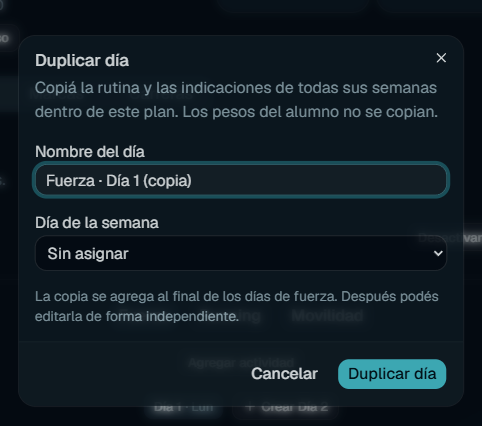
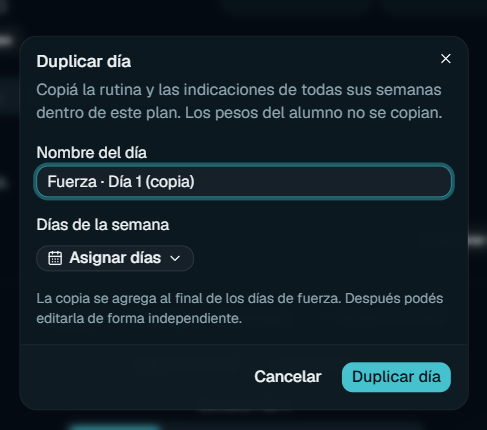
Asignar una rutina a varios días con un checklist desplegable

diff --git a/aktiv-client/src/components/plan-mensual.tsx b/aktiv-client/src/components/plan-mensual.tsx
@@ -1,11 +1,12 @@
 "use client";
+import { DiasSesion } from "@/components/dias-sesion";
 
 import { useCallback, useEffect, useRef, useState, type ReactNode } from "react";
 import { ArrowLeft, ArrowRight, CalendarDays, Check, Copy, Pencil, Plus, Trash2 } from "lucide-react";
 import { toast } from "sonner";
 import { ZodError } from "zod";
 import {
-  DIAS_PLAN, MAX_SEMANAS_PLAN, semanasDelPlan, prescripcionEfectiva, semanaDelPlan,
+  diasDeSesion, DIAS_PLAN, MAX_SEMANAS_PLAN, semanasDelPlan, prescripcionEfectiva, semanaDelPlan,
   altaMensualApi, altaSesionApi, duplicarSesionApi, parcheSesionApi, parcheEjercicioMensualApi,
   parcheCeldaAlumnoApi, parcheCeldaProfeApi, parcheMensualApi, type PlanMensual, type SesionEntrenamiento, type EjercicioMensual,
 } from "@aktiv/contrato";
@@ -28,7 +29,6 @@ import { GuardarModeloDialog } from "@/components/guardar-modelo-dialog";
 import { avisarCambioMensual, usePlanesMensuales, hayBorradoresMensuales, registrarBorradorMensual } from "@/lib/mensual";
 import { formatFecha, hoyISO, nuevoId } from "@/lib/format";
 
-const selector = "h-9 w-full min-w-0 rounded-lg border border-input bg-background px-2 text-sm";
 function navegar(accion: () => void) {
   if (hayBorradoresMensuales()) toast.error("Esperá a que se guarden los cambios antes de cambiar de vista.");
   else accion();
@@ -214,8 +214,8 @@ export function ContenidoMes({ plan, editable }: { plan: Pick<PlanMensual, "id" 
     } catch (e) { toast.error(mensaje(e)); } finally { setOcupado(false); }
   }
   if (!editable) {
-    const delDia = plan.sesiones.filter((s) => s.dia === diaAlumno).sort((a, b) => a.orden - b.orden);
-    const sinAsignar = plan.sesiones.filter((s) => s.dia === null);
+    const delDia = plan.sesiones.filter((s) => diasDeSesion(s).includes(diaAlumno)).sort((a, b) => a.orden - b.orden);
+    const sinAsignar = plan.sesiones.filter((s) => !diasDeSesion(s).length);
     const hoy = (new Date().getDay() + 6) % 7 + 1;
     return <div className="space-y-6">
       <div className="space-y-2"><p className="text-center text-sm font-medium">Semana {semana} de {plan.semanas}</p><SemanasPlan total={plan.semanas} semana={semana} actual={actual} onSeleccionar={(s) => navegar(() => setSemana(s))} /></div>
@@ -223,7 +223,7 @@ export function ContenidoMes({ plan, editable }: { plan: Pick<PlanMensual, "id" 
         {!actual && <p className="text-sm text-muted-foreground">{hoyISO() < inicio ? "El plan todavía no empezó." : "Este plan terminó."} Podés consultar sus entrenamientos.</p>}
           <div role="group" aria-label="Días de la semana" className="flex min-w-0 flex-wrap justify-center gap-2">
             {DIAS_PLAN.map((dia, i) => {
-              const entrenamientos = plan.sesiones.filter((s) => s.dia === i + 1);
+              const entrenamientos = plan.sesiones.filter((s) => diasDeSesion(s).includes(i + 1));
               const seleccionado = diaAlumno === i + 1;
               return <Button key={dia} size="sm" className={`h-auto min-h-20 min-w-0 basis-[calc((100%-1.5rem)/4)] flex-col justify-start gap-2 self-stretch whitespace-normal rounded-xl border px-1.5 py-2.5 text-center sm:basis-[calc((100%-3rem)/7)] ${seleccionado ? "border-primary bg-primary/10 ring-1 ring-primary text-foreground hover:bg-primary/15" : "border-transparent bg-muted/40 text-foreground hover:bg-muted"}`} variant="ghost" aria-label={dia} aria-pressed={seleccionado} onClick={() => navegar(() => setDiaAlumno(i + 1))}>
                 <span className={`text-xs font-semibold ${seleccionado ? "text-primary" : "text-muted-foreground"}`}>{dia.slice(0, 3)}</span>
@@ -252,7 +252,7 @@ export function ContenidoMes({ plan, editable }: { plan: Pick<PlanMensual, "id" 
     {(sesiones.length > 0 || editable) && <div className="space-y-2">
       <h3 className="sr-only">Días de {tipo.toLowerCase()}</h3>
       <div role="group" aria-label="Días del entrenamiento" className="flex flex-wrap justify-center gap-2">
-        {sesiones.map((s, i) => <Button key={s.id} size="sm" variant={sesion?.id === s.id ? "secondary" : "outline"} aria-label={`Día ${i + 1}`} aria-pressed={sesion?.id === s.id} disabled={ocupado} onClick={() => navegar(() => setSeleccionSesion(s.id))}>Día {i + 1}{s.dia && <span className="text-muted-foreground"> · {DIAS_PLAN[s.dia - 1].slice(0, 3)}</span>}</Button>)}
+        {sesiones.map((s, i) => <Button key={s.id} size="sm" variant={sesion?.id === s.id ? "secondary" : "outline"} aria-label={`Día ${i + 1}`} aria-pressed={sesion?.id === s.id} disabled={ocupado} onClick={() => navegar(() => setSeleccionSesion(s.id))}>Día {i + 1}{diasDeSesion(s).length>0 && <span className="text-muted-foreground"> · {diasDeSesion(s).map(d=>DIAS_PLAN[d-1].slice(0,3)).join(" / ")}</span>}</Button>)}
         {editable && <Button variant="outline" size="sm" disabled={ocupado} onClick={() => navegar(() => void nuevaSesion())}><Plus />{ocupado ? "Creando día…" : `Crear Día ${sesiones.length + 1}`}</Button>}
       </div>
     </div>}
@@ -279,6 +279,7 @@ function EditorSesion(props: PropsEditorSesion) {
 function DuplicarSesionDialog({ sesion, onCerrar, onDuplicada }: { sesion: SesionEntrenamiento; onCerrar: () => void; onDuplicada: (id: string) => void }) {
   const { api } = usePlanEditor();
   const [id] = useState(nuevoId);
+  const [dias, setDias] = useState<number[]>([]);
   const [ocupado, setOcupado] = useState(false);
   const [error, setError] = useState("");
   async function duplicar(e: React.FormEvent<HTMLFormElement>) {
@@ -286,7 +287,7 @@ function DuplicarSesionDialog({ sesion, onCerrar, onDuplicada }: { sesion: Sesio
     if (ocupado) return;
     if (hayBorradoresMensuales()) { setError("Esperá a que se guarden los cambios antes de duplicar."); return; }
     const f = new FormData(e.currentTarget);
-    const resultado = duplicarSesionApi.safeParse({ id, nombre: String(f.get("nombre")).trim(), dia: f.get("dia") ? Number(f.get("dia")) : null });
+    const resultado = duplicarSesionApi.safeParse({ id, nombre: String(f.get("nombre")).trim(), dia: dias[0] ?? null, dias });
     if (!resultado.success) { setError(resultado.error.issues[0]?.message ?? "Revisá los datos de la copia."); return; }
     setOcupado(true); setError("");
     try {
@@ -300,7 +301,7 @@ function DuplicarSesionDialog({ sesion, onCerrar, onDuplicada }: { sesion: Sesio
         <DialogHeader><DialogTitle>Duplicar día</DialogTitle><DialogDescription>Copiá la rutina y las indicaciones de todas sus semanas dentro de este plan. Los pesos del alumno no se copian.</DialogDescription></DialogHeader>
         <fieldset disabled={ocupado} className="min-w-0 space-y-4">
           <label className="block space-y-1 text-sm">Nombre del día<Input name="nombre" defaultValue={`${(sesion.nombre || sesion.tipo).slice(0, 52)} (copia)`} maxLength={60} required autoFocus /></label>
-          <label className="block space-y-1 text-sm">Día de la semana<select name="dia" aria-label="Día de la semana" className={selector} defaultValue=""><option value="">Sin asignar</option>{DIAS_PLAN.map((d, i) => <option key={d} value={i + 1}>{d}</option>)}</select></label>
+          <div className="space-y-2"><p className="text-sm">Días de la semana</p><DiasSesion value={dias} onChange={setDias} disabled={ocupado} /></div>
           <p className="text-xs text-muted-foreground">La copia se agrega al final de los días de {sesion.tipo.toLowerCase()}. Después podés editarla de forma independiente.</p>
         </fieldset>
         {error && <p role="alert" className="text-sm text-destructive">{error}</p>}
@@ -312,6 +313,7 @@ function DuplicarSesionDialog({ sesion, onCerrar, onDuplicada }: { sesion: Sesio
 
 function EditarSesionDialog({ sesion, onGuardar, onCerrar }: { sesion: SesionEntrenamiento; onGuardar: (sesion: SesionEntrenamiento) => void; onCerrar: () => void }) {
   const { api } = usePlanEditor();
+  const [dias, setDias] = useState(()=>diasDeSesion(sesion));
   const [ocupado, setOcupado] = useState(false);
   const [error, setError] = useState("");
   async function guardar(e: React.FormEvent<HTMLFormElement>) {
@@ -319,7 +321,7 @@ function EditarSesionDialog({ sesion, onGuardar, onCerrar }: { sesion: SesionEnt
     const f = new FormData(e.currentTarget);
     setOcupado(true); setError("");
     try {
-      const resultado = parcheSesionApi.safeParse({ nombre: String(f.get("nombre")).trim(), dia: f.get("dia") ? Number(f.get("dia")) : null });
+      const resultado = parcheSesionApi.safeParse({ nombre: String(f.get("nombre")).trim(), dia: dias[0] ?? null, dias });
       if (!resultado.success) { setError(resultado.error.issues[0]?.message ?? "Revisá los datos del entrenamiento."); return; }
       await api.patch(`/sesiones/${sesion.id}`, resultado.data);
       const actualizada = { ...sesion, ...resultado.data };
@@ -333,7 +335,7 @@ function EditarSesionDialog({ sesion, onGuardar, onCerrar }: { sesion: SesionEnt
         <DialogHeader><DialogTitle>Editar entrenamiento</DialogTitle><DialogDescription>Cambiá el nombre y el día en que le toca al alumno.</DialogDescription></DialogHeader>
         <fieldset disabled={ocupado} className="min-w-0 space-y-4">
           <label className="block space-y-1 text-sm">Nombre del día<Input name="nombre" defaultValue={sesion.nombre} maxLength={60} autoFocus /></label>
-          <label className="block space-y-1 text-sm">Día de la semana<select name="dia" aria-label="Día de la semana" className={selector} defaultValue={sesion.dia ?? ""}><option value="">Sin asignar</option>{DIAS_PLAN.map((d, i) => <option key={d} value={i + 1}>{d}</option>)}</select></label>
+          <div className="space-y-2"><p className="text-sm">Días de la semana</p><DiasSesion value={dias} onChange={setDias} disabled={ocupado} /></div>
           <p className="text-xs text-muted-foreground">Podés asignar varios entrenamientos al mismo día. Aparecen en «Hoy te toca».</p>
         </fieldset>
         {error && <p role="alert" className="text-sm text-destructive">{error}</p>}
@@ -376,7 +378,7 @@ function FormularioSesion({ sesion, numeroDia, semana, semanasVisibles, totalSem
     guardando.current = true;
     setOcupado(true); setError("");
     try {
-      const cabecera = (s: SesionEntrenamiento) => ({ nombre: s.nombre, tipo: s.tipo, dia: s.dia, calentamiento: s.calentamiento, activacion: s.activacion, enfriamiento: s.enfriamiento, orden: s.orden, bloques: s.bloques });
+      const cabecera = (s: SesionEntrenamiento) => ({ nombre: s.nombre, tipo: s.tipo, dia: s.dia, ...(s.dias ? {dias:s.dias} : {}), calentamiento: s.calentamiento, activacion: s.activacion, enfriamiento: s.enfriamiento, orden: s.orden, bloques: s.bloques });
       const c = cambio(cabecera(guardado), cabecera(borrador));
       // Validar el borrador entero antes de empezar a escribir.
       const operaciones: { ruta: string; datos: object }[] = [];
@@ -441,7 +443,7 @@ function FormularioSesion({ sesion, numeroDia, semana, semanasVisibles, totalSem
       avisarCambioMensual(); setConfirmar(false); setQuitar(null);
     } catch (e) { setError(mensaje(e)); } finally { setOcupado(false); }
   }
-  return <Card className="gap-6 shadow-none ring-border/60"><CardHeader><div className="flex items-start justify-between gap-3"><div className="min-w-0"><CardTitle className="break-words text-lg">{borrador.nombre || `${sesion.tipo} · Día ${numeroDia}`}</CardTitle><CardDescription>{borrador.dia ? DIAS_PLAN[borrador.dia - 1] : "Sin día asignado"}</CardDescription></div><div className="flex shrink-0 gap-1"><Button type="button" variant="ghost" size="icon-sm" className="text-muted-foreground" aria-label="Duplicar día de entrenamiento" title="Duplicar día" disabled={ocupado || sucio} onClick={onDuplicar}><Copy /></Button><Button type="button" variant="ghost" size="icon-sm" className="text-muted-foreground" aria-label="Editar entrenamiento" title="Editar entrenamiento" disabled={ocupado || sucio} onClick={() => setEditando(true)}><Pencil /></Button><Button type="button" variant="ghost" size="icon-sm" className="text-muted-foreground" aria-label="Eliminar sesión" disabled={ocupado || sucio} onClick={() => setConfirmar(true)}><Trash2 /></Button></div></div></CardHeader>
+  return <Card className="gap-6 shadow-none ring-border/60"><CardHeader><div className="flex items-start justify-between gap-3"><div className="min-w-0"><CardTitle className="break-words text-lg">{borrador.nombre || `${sesion.tipo} · Día ${numeroDia}`}</CardTitle><div className="mt-2"><DiasSesion value={diasDeSesion(borrador)} onChange={(dias)=>setBorrador(b=>({...b,dias,dia:dias[0]??null}))} /></div></div><div className="flex shrink-0 gap-1"><Button type="button" variant="ghost" size="icon-sm" className="text-muted-foreground" aria-label="Duplicar día de entrenamiento" title="Duplicar día" disabled={ocupado || sucio} onClick={onDuplicar}><Copy /></Button><Button type="button" variant="ghost" size="icon-sm" className="text-muted-foreground" aria-label="Editar entrenamiento" title="Editar entrenamiento" disabled={ocupado || sucio} onClick={() => setEditando(true)}><Pencil /></Button><Button type="button" variant="ghost" size="icon-sm" className="text-muted-foreground" aria-label="Eliminar sesión" disabled={ocupado || sucio} onClick={() => setConfirmar(true)}><Trash2 /></Button></div></div></CardHeader>
     {editando && <EditarSesionDialog sesion={borrador} onCerrar={() => setEditando(false)} onGuardar={(actualizada) => { setBorrador(actualizada); setGuardado(actualizada); }} />}
     <CardContent><form onSubmit={(e) => { e.preventDefault(); void guardar(); }} className="space-y-6 [&_input[data-slot=input]]:border-border/50 [&_textarea]:border-border/50">
       <fieldset className="min-w-0 space-y-8">
@@ -477,7 +479,7 @@ function CalendarioPlanes({ planes }: { planes: PlanMensual[] }) {
   const entradas = (dia: string, numero: number) => planes.flatMap((plan) => {
     const semana = semanaDelPlan(plan.inicio, dia, plan.semanas);
     if(!semana)return [];
-    const anteriores=plan.sesiones.filter(s=>s.dia===numero&&mostrarAnterior(plan,s)&&(filtro===null||s.tipo===filtro)).map(sesion=>({plan,sesion,semana}));
+    const anteriores=plan.sesiones.filter(s=>diasDeSesion(s).includes(numero)&&mostrarAnterior(plan,s)&&(filtro===null||s.tipo===filtro)).map(sesion=>({plan,sesion,semana}));
     const texto=plan.running?.[semana]?.[(["lunes","martes","miercoles","jueves","viernes","sabado","domingo"] as const)[numero-1]];
     if(texto?.trim()&&(filtro===null||filtro==="Running"))anteriores.push({plan,semana,sesion:{id:"running:"+plan.id+":"+numero,nombre:texto,tipo:"Running",dia:numero,orden:0,franja:"Sin definir",calentamiento:"",enfriamiento:"",activacion:[],bloques:[],ejercicios:[]}});
     return anteriores;
@@ -486,7 +488,7 @@ function CalendarioPlanes({ planes }: { planes: PlanMensual[] }) {
   const seleccionadas = entradas(fecha, numeroDia);
   const sinAsignar = planes.flatMap((plan) => {
     const semana = semanaDelPlan(plan.inicio, fecha, plan.semanas);
-    return semana ? plan.sesiones.filter((s) => s.dia === null && mostrarAnterior(plan,s) && (filtro === null || s.tipo === filtro)).map((sesion) => ({ plan, sesion, semana })) : [];
+    return semana ? plan.sesiones.filter((s) => !diasDeSesion(s).length && mostrarAnterior(plan,s) && (filtro === null || s.tipo === filtro)).map((sesion) => ({ plan, sesion, semana })) : [];
   });
   return <div className="min-w-0 space-y-6">
     <div className="flex flex-wrap items-center justify-center gap-2"><Button size="icon-sm" variant="outline" aria-label="Semana anterior" disabled={lunes <= "2000-01-08"} onClick={() => navegar(() => setFecha((anterior) => desplazarDia(anterior, -7)))}><ArrowLeft /></Button><p className="text-sm font-medium">{formatFecha(lunes)} al {formatFecha(desplazarDia(lunes, 6), { conAnio: true })}</p><Button size="icon-sm" variant="outline" aria-label="Semana siguiente" disabled={fecha >= "2100-12-20"} onClick={() => navegar(() => setFecha((anterior) => desplazarDia(anterior, 7)))}><ArrowRight /></Button><Button size="sm" variant="ghost" onClick={() => navegar(() => setFecha(hoyISO()))}>Hoy</Button></div>

diff --git a/aktiv-api/test/dias-sesion.e2e-spec.ts b/aktiv-api/test/dias-sesion.e2e-spec.ts
@@ -1,0 +1,62 @@
+import type { NestExpressApplication } from "@nestjs/platform-express";
+import type { PlanMensual } from "@aktiv/contrato";
+import { Entorno, Sesion, levantarApi, uuid } from "./helpers";
+
+describe("Una sesión en varios días", () => {
+  const env = new Entorno();
+  let app: NestExpressApplication, A: Sesion, B: Sesion, S: Sesion, alumno: string, sesion: string;
+  const plan = uuid(), modelo = uuid();
+  const leer = async () => ((await S.get(`/api/alumnos/${alumno}/planes-mensuales`)).body as PlanMensual[]).find(p => p.id === plan)!;
+  beforeAll(async () => {
+    app = await levantarApi();
+    const a = await env.usuario("dias-profe", "coach"), b = await env.usuario("dias-ajeno", "coach"), s = await env.usuario("dias-alumno", "alumno");
+    alumno = await env.alumno(a, "Alumno de prueba", s);
+    A = await new Sesion(app).entrar(a.email); B = await new Sesion(app).entrar(b.email); S = await new Sesion(app).entrar(s.email);
+    expect((await A.post(`/api/alumnos/${alumno}/planes-mensuales`, { id: plan, nombre: "Varios días", inicio: "2026-11-01", semanas: 4, activo: true, diasIniciales: { fuerza: 1, running: 0 } })).status).toBe(201);
+    sesion = (await leer()).sesiones[0].id;
+  });
+  afterAll(async () => { await env.limpiar(); if (app) await app.close(); });
+  it("guarda y limpia la asignación sin duplicar la sesión", async () => {
+    expect((await A.patch(`/api/sesiones/${sesion}`, { dias: [5, 1, 3], dia: 1 })).status).toBe(200);
+    expect((await leer()).sesiones).toHaveLength(1);
+    expect((await leer()).sesiones[0]).toMatchObject({ dia: 1, dias: [1, 3, 5] });
+    expect((await A.patch(`/api/sesiones/${sesion}`, { dias: [], dia: null })).status).toBe(200);
+    expect((await leer()).sesiones[0]).toMatchObject({ dia: null, dias: [] });
+    await A.patch(`/api/sesiones/${sesion}`, { dias: [1, 3, 5], dia: 1 });
+  });
+  it("rechaza días inválidos y protege al alumno y a otros profesores", async () => {
+    for (const dias of [[0], [8], [1, 1]]) expect((await A.patch(`/api/sesiones/${sesion}`, { dias })).status).toBe(400);
+    expect((await S.patch(`/api/sesiones/${sesion}`, { dias: [] })).status).toBe(403);
+    expect((await B.patch(`/api/sesiones/${sesion}`, { dias: [] })).status).toBe(404);
+    expect((await leer()).sesiones[0].dias).toEqual([1, 3, 5]);
+  });
+  it("conserva los días al duplicar planes y asignar modelos", async () => {
+    const copia = uuid(), asignado = uuid();
+    expect((await A.post(`/api/planes-mensuales/${plan}/duplicar`, { id: copia, alumnoId: alumno, nombre: "Copia", inicio: "2026-12-01" })).status).toBe(201);
+    expect((await A.post(`/api/planes-modelo/desde-plan/${plan}`, { id: modelo, nombre: "Modelo" })).status).toBe(201);
+    expect((await A.get(`/api/planes-modelo/${modelo}`)).body.sesiones[0].dias).toEqual([1, 3, 5]);
+    expect((await A.post(`/api/planes-modelo/${modelo}/asignar`, { id: asignado, alumnoId: alumno, nombre: "Asignado", inicio: "2026-12-01" })).status).toBe(201);
+    const lista = (await A.get(`/api/alumnos/${alumno}/planes-mensuales`)).body as PlanMensual[];
+    for (const id of [copia, asignado]) expect(lista.find(p => p.id === id)!.sesiones[0].dias).toEqual([1, 3, 5]);
+  });
+  it("edita la selección de un modelo sin alterar sus copias asignadas",async()=>{
+    const ruta=`/api/planes-modelo/${modelo}`;
+    const id=(await A.get(ruta)).body.sesiones[0].id;
+    expect((await A.post(ruta+"/contenido",{metodo:"PATCH",ruta:`/sesiones/${id}`,datos:{dias:[4,2]}})).status).toBe(201);
+    expect((await A.get(ruta)).body.sesiones[0]).toMatchObject({dias:[2,4],dia:2});
+    expect((await A.post(ruta+"/contenido",{metodo:"PATCH",ruta:`/sesiones/${id}`,datos:{dias:[]}})).status).toBe(201);
+    expect((await A.get(ruta)).body.sesiones[0]).toMatchObject({dias:[],dia:null});
+    expect((await leer()).sesiones[0].dias).toEqual([1,3,5]);
+  });
+  it("valida también escrituras directas y conserva clientes de un solo día", async () => {
+    for(const dias of [[0],[8],[1,1],[null]]) { const r=await env.admin.from("sesiones").update({dias}).eq("id",sesion);expect(r.error?.code).toBe("23514"); }
+    expect((await env.admin.from("sesiones").update({dia:2}).eq("id",sesion)).error).toBeNull();expect((await leer()).sesiones[0].dias).toEqual([2]);
+    await A.patch(`/api/sesiones/${sesion}`,{dias:[1,3,5],dia:1});
+  });
+  it("duplica una rutina con una selección independiente", async () => {
+    const id = uuid();
+    expect((await A.post(`/api/sesiones/${sesion}/duplicar`, { id, nombre: "Copia independiente", dia: 2, dias: [2, 4] })).status).toBe(201);
+    expect((await leer()).sesiones.find(s => s.id === id)!.dias).toEqual([2, 4]);
+    expect((await leer()).sesiones.find(s => s.id === sesion)!.dias).toEqual([1, 3, 5]);
+  });
+});

diff --git a/aktiv-api/contrato/src/mensual.ts b/aktiv-api/contrato/src/mensual.ts
@@ -10,6 +10,7 @@ export function semanasDelPlan(cantidad: number) {
   return Array.from({ length: cantidad }, (_, i) => i + 1);
 }
 export const DIAS_PLAN = ["Lunes", "Martes", "Miércoles", "Jueves", "Viernes", "Sábado", "Domingo"] as const;
+export const diasSesionSchema = z.array(z.number().int().min(1).max(7)).max(7).refine(d => new Set(d).size === d.length, "Día repetido");
 const id = z.uuid("Identificador inválido");
 export const actividadPlanSchema = z.string().trim().min(1, "Escribí la actividad").max(80).transform((s) => s.replace(/\s+/g, " "));
 const inicio = fechaISO.refine((f) => f >= "2000-01-01" && f <= "2100-01-01", "Fecha fuera de rango");
@@ -32,7 +33,7 @@ export const ejercicioMensualSchema = z.object({
 });
 export const sesionEntrenamientoSchema = z.object({
   franja: z.enum(["Mañana", "Tarde", "Noche", "Sin definir"]).default("Sin definir"),
-  id, dia: z.number().int().min(1).max(7).nullable(), tipo: actividadPlanSchema,
+  id, dias: diasSesionSchema.optional(), dia: z.number().int().min(1).max(7).nullable(), tipo: actividadPlanSchema,
   nombre: textoOpcional(60), calentamiento: textoOpcional(4000), enfriamiento: textoOpcional(4000),
   orden: z.number().int(), ejercicios: z.array(ejercicioMensualSchema),
   bloques: bloquesSesionSchema.default([]),
@@ -64,7 +65,7 @@ export const parcheMensualApi = noVacio({ nombre: textoOpcional(120), inicio, ac
 export const altaSesionApi = sesionEntrenamientoSchema.omit({ ejercicios: true, orden: true }).strict();
 export const duplicarSesionApi = z.object({
   id, nombre: z.string().trim().min(1, "Escribí un nombre para la copia").max(60),
-  dia: z.number().int().min(1).max(7).nullable(),
+  dia: z.number().int().min(1).max(7).nullable(), dias: diasSesionSchema.optional(),
 }).strict();
 export const duplicarPlanApi = z.object({
   id, alumnoId: id, inicio,
@@ -92,3 +93,6 @@ export function semanaDelPlan(inicioPlan: string, fecha = hoyISO(), cantidadSema
   const dias = Math.round((Date.parse(`${fecha}T12:00:00Z`) - Date.parse(`${inicioPlan}T12:00:00Z`)) / 86400000);
   return dias >= 0 && dias < cantidadSemanas * 7 ? Math.floor(dias / 7) + 1 : null;
 }
+
+/** Compatibilidad con sesiones anteriores a la asignación múltiple. */
+export function diasDeSesion(s: { dia: number | null; dias?: number[] }): number[] { return s.dias ?? (s.dia === null ? [] : [s.dia]); }

diff --git a/aktiv-client/src/contrato/mensual.ts b/aktiv-client/src/contrato/mensual.ts
@@ -10,6 +10,7 @@ export function semanasDelPlan(cantidad: number) {
   return Array.from({ length: cantidad }, (_, i) => i + 1);
 }
 export const DIAS_PLAN = ["Lunes", "Martes", "Miércoles", "Jueves", "Viernes", "Sábado", "Domingo"] as const;
+export const diasSesionSchema = z.array(z.number().int().min(1).max(7)).max(7).refine(d => new Set(d).size === d.length, "Día repetido");
 const id = z.uuid("Identificador inválido");
 export const actividadPlanSchema = z.string().trim().min(1, "Escribí la actividad").max(80).transform((s) => s.replace(/\s+/g, " "));
 const inicio = fechaISO.refine((f) => f >= "2000-01-01" && f <= "2100-01-01", "Fecha fuera de rango");
@@ -32,7 +33,7 @@ export const ejercicioMensualSchema = z.object({
 });
 export const sesionEntrenamientoSchema = z.object({
   franja: z.enum(["Mañana", "Tarde", "Noche", "Sin definir"]).default("Sin definir"),
-  id, dia: z.number().int().min(1).max(7).nullable(), tipo: actividadPlanSchema,
+  id, dias: diasSesionSchema.optional(), dia: z.number().int().min(1).max(7).nullable(), tipo: actividadPlanSchema,
   nombre: textoOpcional(60), calentamiento: textoOpcional(4000), enfriamiento: textoOpcional(4000),
   orden: z.number().int(), ejercicios: z.array(ejercicioMensualSchema),
   bloques: bloquesSesionSchema.default([]),
@@ -64,7 +65,7 @@ export const parcheMensualApi = noVacio({ nombre: textoOpcional(120), inicio, ac
 export const altaSesionApi = sesionEntrenamientoSchema.omit({ ejercicios: true, orden: true }).strict();
 export const duplicarSesionApi = z.object({
   id, nombre: z.string().trim().min(1, "Escribí un nombre para la copia").max(60),
-  dia: z.number().int().min(1).max(7).nullable(),
+  dia: z.number().int().min(1).max(7).nullable(), dias: diasSesionSchema.optional(),
 }).strict();
 export const duplicarPlanApi = z.object({
   id, alumnoId: id, inicio,
@@ -92,3 +93,6 @@ export function semanaDelPlan(inicioPlan: string, fecha = hoyISO(), cantidadSema
   const dias = Math.round((Date.parse(`${fecha}T12:00:00Z`) - Date.parse(`${inicioPlan}T12:00:00Z`)) / 86400000);
   return dias >= 0 && dias < cantidadSemanas * 7 ? Math.floor(dias / 7) + 1 : null;
 }
+
+/** Compatibilidad con sesiones anteriores a la asignación múltiple. */
+export function diasDeSesion(s: { dia: number | null; dias?: number[] }): number[] { return s.dias ?? (s.dia === null ? [] : [s.dia]); }

diff --git a/aktiv-client/src/lib/manual-detallado.ts b/aktiv-client/src/lib/manual-detallado.ts
@@ -120,7 +120,8 @@ export const guias: GuiaManual[] = [
   g("editar-plan", "Planes", "Editar y ordenar un entrenamiento", "Cambiar día, entrada en calor, ejercicios, semanas y vuelta a la calma.", "/alumnos", [
     p("Elegí actividad y Día", "Abrí el plan, pulsá la actividad y después Día 1, Día 2, etcétera. Revisá el título antes de modificar contenido.", "modelo-editor"),
     p("Revisá la semana seleccionada", "Semana 1, Semana 2 y los demás botones permiten recorrer la progresión. La tabla del profesor muestra las columnas disponibles. Comprobá qué celda estás completando antes de escribir.", "editor-bloques"),
-    p("Para nombre o día semanal, usá el lápiz de la sesión", "En Editar entrenamiento podés cambiar Nombre del día y Día de la semana. Confirmá Guardar cambios. No modifica la fecha de inicio de todo el plan.", "dia-editar"),
+    p("Asigná uno o varios días", "Debajo del título del entrenamiento, pulsá Asignar días. En el desplegable tildá Lunes, Miércoles u otros días y pulsá Listo. Esperá Guardado automáticamente. La misma sesión aparece en todos los días elegidos: editar sus ejercicios modifica esa rutina compartida, sin crear copias. Sin asignar quita todos los tildes; no borra el entrenamiento.", "dias-asignar"),
+    p("Para cambiar el nombre, usá el lápiz", "En Editar entrenamiento podés cambiar Nombre del día y también los días de la semana. Confirmá Guardar cambios. No modifica la fecha de inicio de todo el plan.", "dia-editar"),
     p("Editá movilidad y activación", "Buscá el movimiento y escribí su Indicación al lado. Arrastrá desde la manija para ordenar. Pasar a movilidad o Pasar a activación cambia la sección; el tacho quita la fila de esa preparación.", "editor-movilidad"),
     p("Completá cada fila de entrenamiento", "Elegí el ejercicio y escribí su prescripción semanal: por ejemplo 3×10, 20 minutos suaves o 4×200 m. Escribí la pausa en Descanso. El peso usado por el alumno es un registro aparte.", "editor-bloques"),
     p("Mové ejercicios si quedaron en otro bloque", "Arrastrá la manija de la fila hacia el bloque de destino. También podés abrir Mover a otro bloque y elegir el destino en el selector. Revisá la ubicación final.", "editor-bloques"),

diff --git a/aktiv-api/src/common/errores.ts b/aktiv-api/src/common/errores.ts
@@ -50,6 +50,7 @@ function traducirErrorDeDb(e: ErrorDb): HttpException {
   if (["PGRST202", "PGRST205", "42P01", "42883"].includes(e.code ?? "") && /\b(planes_modelo|asignar_plan_modelo)\b/.test(e.message)) return new ErrorApi(HttpStatus.SERVICE_UNAVAILABLE, "modelos_esquema_desactualizado", "Para habilitar la biblioteca de planes falta aplicar la migración 47. Los planes de los alumnos siguen disponibles.");
   if (["PGRST204", "42703"].includes(e.code ?? "") && /\bobjetivo\b/.test(e.message) && /\binscripciones\b/.test(e.message)) return new ErrorApi(HttpStatus.SERVICE_UNAVAILABLE, "objetivo_esquema_desactualizado", "Para guardar objetivos de texto falta aplicar la migración 46.");
   if (e.code === "23514" && /\bsesiones_activacion_valida\b/.test(e.message)) return new ErrorApi(HttpStatus.SERVICE_UNAVAILABLE, "fases_esquema_desactualizado", "Revisá la migración 45 para guardar movilidad y activación por separado.");
+  if (/\b(dias|duplicar_sesion_dias)\b/.test(e.message) && ["PGRST202","PGRST204","42703"].includes(e.code ?? "")) return new ErrorApi(HttpStatus.SERVICE_UNAVAILABLE,"dias_esquema_desactualizado","Falta aplicar la migración 52 para asignar una rutina a varios días. Tus entrenamientos anteriores se conservan.");
   if (/\b(guardar_running|running)\b/.test(e.message) && ["PGRST202","PGRST204","42703"].includes(e.code ?? "")) return new ErrorApi(HttpStatus.SERVICE_UNAVAILABLE,"running_esquema_desactualizado","Falta aplicar la migración 51 de Running. Tus datos anteriores se conservan.");
   if (/\b(crear_categoria_ejercicio|categorias_ejercicio)\b/.test(e.message) && ["PGRST202", "PGRST205", "42P01", "42883"].includes(e.code ?? "")) return new ErrorApi(HttpStatus.SERVICE_UNAVAILABLE, "categorias_esquema_desactualizado", "Para crear categorías nuevas falta aplicar la migración 44. Tus ejercicios y planes actuales siguen disponibles.");
   if (/\bseguimientos_sesion\b/.test(e.message) && ["PGRST205", "42P01"].includes(e.code ?? "")) return new ErrorApi(HttpStatus.SERVICE_UNAVAILABLE, "seguimiento_esquema_desactualizado", "Falta habilitar el seguimiento. Aplicá la migración 43 y reintentá.");

diff --git a/aktiv-client/src/app/(app)/alumnos/[id]/page.tsx b/aktiv-client/src/app/(app)/alumnos/[id]/page.tsx
@@ -1,4 +1,5 @@
 "use client";
+import { diasDeSesion } from "@aktiv/contrato";
 
 import Link from "next/link";
 import { useState } from "react";
@@ -213,12 +214,12 @@ export default function AlumnoDetallePage() {
       {mensual.cargando ? <div role="status" className="rounded-xl border bg-card p-5 text-sm text-muted-foreground">Cargando semana de entrenamiento…</div> : mensual.error ? <div role="alert" className="space-y-3 rounded-xl border bg-card p-5 text-sm"><p>No pudimos consultar la semana de entrenamiento.</p><Button variant="outline" size="sm" onClick={mensual.reintentar}>Reintentar</Button></div> : <SemanaCard
         titulo="Semana de entrenamiento"
         semana={mesActivo ? Array.from({ length: 7 }, (_, i) => ({
-          correr: mesesActivos.some((p) => p.sesiones.some((s) => s.dia === i + 1 && s.tipo === "Running")),
-          fuerza: mesesActivos.some((p) => p.sesiones.some((s) => s.dia === i + 1 && s.tipo === "Fuerza")),
+          correr: mesesActivos.some((p) => p.sesiones.some((s) => diasDeSesion(s).includes(i + 1) && s.tipo === "Running")),
+          fuerza: mesesActivos.some((p) => p.sesiones.some((s) => diasDeSesion(s).includes(i + 1) && s.tipo === "Fuerza")),
         })) : alumno.semana}
         descripcion={mesActivo ? `${mesesActivos.length} ${mesesActivos.length === 1 ? "plan activo" : "planes activos"} · Asignación opcional al calendario` : undefined}
-        actividades={mesActivo ? Array.from({ length: 7 }, (_, i) => [...new Set(mesesActivos.flatMap((p) => p.sesiones.filter((s) => s.dia === i + 1).map((s) => s.tipo)))]) : undefined}
-        sinDiasFijos={mesesActivos.some((p) => p.sesiones.some((s) => s.dia === null))}
+        actividades={mesActivo ? Array.from({ length: 7 }, (_, i) => [...new Set(mesesActivos.flatMap((p) => p.sesiones.filter((s) => diasDeSesion(s).includes(i + 1)).map((s) => s.tipo)))]) : undefined}
+        sinDiasFijos={mesesActivos.some((p) => p.sesiones.some((s) => !diasDeSesion(s).length))}
         onAlternar={mesActivo ? undefined : (dia, tipo) => alternarDia(alumno.id, dia, tipo)}
       />}
 

diff --git a/aktiv-api/src/modelos/contenido.ts b/aktiv-api/src/modelos/contenido.ts
@@ -27,11 +27,16 @@ export function operarModelo(original: PlanModelo, op: OperacionModelo): PlanMod
     if (!m.sesiones.some((s) => s.id === dto.id)) m.sesiones.push({ ...dto, orden: Math.max(-1, ...m.sesiones.map((s) => s.orden)) + 1, ejercicios: [] });
   } else if (recurso === "sesiones") {
     const s = m.sesiones.find((s) => s.id === id); if (!s) throw noEncontrado("El entrenamiento");
-    if (partes.length === 2 && op.metodo === "PATCH") Object.assign(s, validarOLanzar(parcheSesionApi, op.datos));
+    if (partes.length === 2 && op.metodo === "PATCH") {
+      const dto=validarOLanzar(parcheSesionApi,op.datos);
+      const dias=dto.dias ?? (Object.hasOwn(dto,"dia") ? (dto.dia == null ? [] : [dto.dia]) : undefined);
+      Object.assign(s,dto);
+      if(dias) {s.dias=[...dias].sort((a,b)=>a-b);s.dia=s.dias[0]??null;}
+    }
     else if (partes.length === 2 && op.metodo === "DELETE") m.sesiones = m.sesiones.filter((s) => s.id !== id);
     else if (partes.length === 3 && accion === "duplicar" && op.metodo === "POST") {
       const dto = validarOLanzar(duplicarSesionApi, op.datos);
-      if (!m.sesiones.some((s) => s.id === dto.id)) m.sesiones.push({ ...copiarSesiones([s])[0], id: dto.id, nombre: dto.nombre, dia: dto.dia, orden: Math.max(-1, ...m.sesiones.map((s) => s.orden)) + 1 });
+      if (!m.sesiones.some((s) => s.id === dto.id)) m.sesiones.push({ ...copiarSesiones([s])[0], id: dto.id, nombre: dto.nombre, dia: dto.dias ? (dto.dias[0] ?? null) : dto.dia, dias: dto.dias ?? (dto.dia === null ? [] : [dto.dia]), orden: Math.max(-1, ...m.sesiones.map((s) => s.orden)) + 1 });
     } else if (partes.length === 3 && accion === "ejercicios" && op.metodo === "POST") {
       const dto = validarOLanzar(altaEjercicioMensualApi, op.datos);
       if (!s.ejercicios.some((e) => e.id === dto.id)) s.ejercicios.push({ ...dto, orden: Math.max(-1, ...s.ejercicios.map((e) => e.orden)) + 1, semanas: Array.from({ length: m.semanas }, (_, i) => ({ semana: i + 1, prescripcion: "", peso: null, pesoFecha: null })) });

diff --git a/aktiv-client/src/components/dias-sesion.tsx b/aktiv-client/src/components/dias-sesion.tsx
@@ -1,0 +1,26 @@
+"use client";
+
+import { useState } from "react";
+import { ChevronDown, CalendarDays } from "lucide-react";
+import { DIAS_PLAN } from "@aktiv/contrato";
+import { Button } from "./ui/button";
+import { Popover, PopoverContent, PopoverTrigger } from "./ui/popover";
+
+export function DiasSesion({ value, onChange, disabled, name }: { value: number[]; onChange: (dias: number[]) => void; disabled?: boolean; name?: string }) {
+  const [abierto, setAbierto] = useState(false);
+  return <>
+    {name && <input type="hidden" name={name} value={JSON.stringify(value)} />}
+    <Popover open={abierto} onOpenChange={setAbierto}>
+      <PopoverTrigger render={<Button type="button" variant="outline" disabled={disabled} aria-label="Asignar días de la semana" className="h-auto max-w-full justify-start whitespace-normal text-left" />}>
+        <CalendarDays className="shrink-0" /><span>{value.length ? value.map(d => DIAS_PLAN[d - 1]).join(", ") : "Asignar días"}</span><ChevronDown className="shrink-0" />
+      </PopoverTrigger>
+      <PopoverContent align="start" className="max-w-[calc(100vw-2rem)]" aria-label="Días de la semana">
+        <p className="px-2 text-sm text-muted-foreground">Elegí uno o varios días. Comparten la misma rutina.</p>
+        {DIAS_PLAN.map((dia, i) => <label key={dia} className="flex min-h-10 cursor-pointer items-center gap-3 rounded-md px-2 hover:bg-muted">
+          <input type="checkbox" checked={value.includes(i + 1)} disabled={disabled} className="size-4 accent-primary" onChange={e => onChange(e.target.checked ? [...value, i + 1].sort((a,b)=>a-b) : value.filter(d => d !== i + 1))} />{dia}
+        </label>)}
+        <div className="flex justify-between border-t pt-2"><Button type="button" variant="ghost" size="sm" disabled={disabled || !value.length} onClick={()=>onChange([])}>Sin asignar</Button><Button type="button" size="sm" onClick={()=>setAbierto(false)}>Listo</Button></div>
+      </PopoverContent>
+    </Popover>
+  </>;
+}

diff --git a/aktiv-api/contrato/src/mensual.test.ts b/aktiv-api/contrato/src/mensual.test.ts
@@ -1,5 +1,5 @@
 import { describe, expect, it } from "vitest";
-import { diasInicialesSchema, actividadesIniciales, prescripcionEfectiva, semanaDelPlan, semanasDelPlan, parcheCeldaAlumnoApi, parcheMensualApi, parcheSesionApi, altaMensualApi, altaSesionApi, duplicarSesionApi, duplicarPlanApi, type CeldaSemanal } from "./mensual";
+import { diasDeSesion, diasSesionSchema, diasInicialesSchema, actividadesIniciales, prescripcionEfectiva, semanaDelPlan, semanasDelPlan, parcheCeldaAlumnoApi, parcheMensualApi, parcheSesionApi, altaMensualApi, altaSesionApi, duplicarSesionApi, duplicarPlanApi, type CeldaSemanal } from "./mensual";
 const celdas = ["4×8", "", "5×8", ""].map((prescripcion, i): CeldaSemanal => ({ semana: i + 1, prescripcion, peso: String(i + 10), pesoFecha: null }));
 describe("plan mensual", () => {
   it("copia planes con destino y fecha válidos sin permitir activar ni sobrescribir contenido", () => {
@@ -89,4 +89,9 @@ describe("plan mensual", () => {
     expect(diasInicialesSchema.parse([{ tipo: " Movilidad   suave ", dias: 2 }])).toEqual([{ tipo: "Movilidad suave", dias: 2 }]);
     for (const dato of [[], [{ tipo: "A", dias: 1 }, { tipo: "a", dias: 1 }], Array.from({ length: 5 }, (_, i) => ({ tipo: String(i), dias: 7 }))]) expect(diasInicialesSchema.safeParse(dato).success).toBe(false);
   });
+});
+
+describe("asignación múltiple de días",()=>{
+ it("conserva sesiones anteriores y permite quitar todos los días",()=>{expect(diasDeSesion({dia:3})).toEqual([3]);expect(diasDeSesion({dia:1,dias:[]})).toEqual([]);expect(diasDeSesion({dia:1,dias:[1,3,5]})).toEqual([1,3,5]);});
+ it("rechaza días inválidos o repetidos",()=>{for(const d of [[0],[8],[1,1],[1.5],[null]])expect(diasSesionSchema.safeParse(d).success).toBe(false);expect(parcheSesionApi.parse({dias:[1,3,5],dia:1}).dias).toEqual([1,3,5]);});
 });

diff --git a/aktiv-client/src/components/alumno-resumen.tsx b/aktiv-client/src/components/alumno-resumen.tsx
@@ -1,4 +1,5 @@
 "use client";
+import { diasDeSesion } from "@aktiv/contrato";
 
 import { ArrowUpRight, CalendarDays, ClipboardList, Medal, StickyNote } from "lucide-react";
 import { Card, CardContent, CardHeader, CardTitle } from "@/components/ui/card";
@@ -22,7 +23,7 @@ export function AlumnoResumen({ alumno, mensual, onAbrir }: {
   const mes = meses[0];
   const sesionesHoy = meses.flatMap((plan) => {
     const semana = semanaDelPlan(plan.inicio, hoyISO(), plan.semanas);
-    return semana ? plan.sesiones.filter((s) => s.dia === diaDeHoy() + 1).map((sesion) => ({ sesion, plan, semana })) : [];
+    return semana ? plan.sesiones.filter((s) => diasDeSesion(s).includes(diaDeHoy() + 1)).map((sesion) => ({ sesion, plan, semana })) : [];
   });
   const runningHoy=meses.flatMap(plan=>{const semana=semanaDelPlan(plan.inicio,hoyISO(),plan.semanas);const texto=semana?plan.running?.[semana]?.[CAMPOS_RUNNING[diaDeHoy()]]:null;return texto?.trim()?[{plan,semana,texto}]:[];});
   const hoy = alumno.semana[diaDeHoy()];

diff --git a/aktiv-api/src/mensuales/mensuales.module.ts b/aktiv-api/src/mensuales/mensuales.module.ts
@@ -158,7 +158,7 @@ export class MensualesService {
     const dto = validarOLanzar(duplicarSesionApi, body);
     const db = this.supa.delUsuario(u.token);
     await this.existe(db, TABLAS.sesion, origen);
-    const r = await db.rpc("duplicar_sesion", { p_origen: origen, p_id: dto.id, p_nombre: dto.nombre, p_dia: dto.dia });
+    const r = await db.rpc(dto.dias ? "duplicar_sesion_dias" : "duplicar_sesion", { p_origen: origen, p_id: dto.id, p_nombre: dto.nombre, p_dia: dto.dia, ...(dto.dias ? { p_dias: dto.dias } : {}) });
     lanzarSiError(r.error);
     return { id: dto.id };
   }
